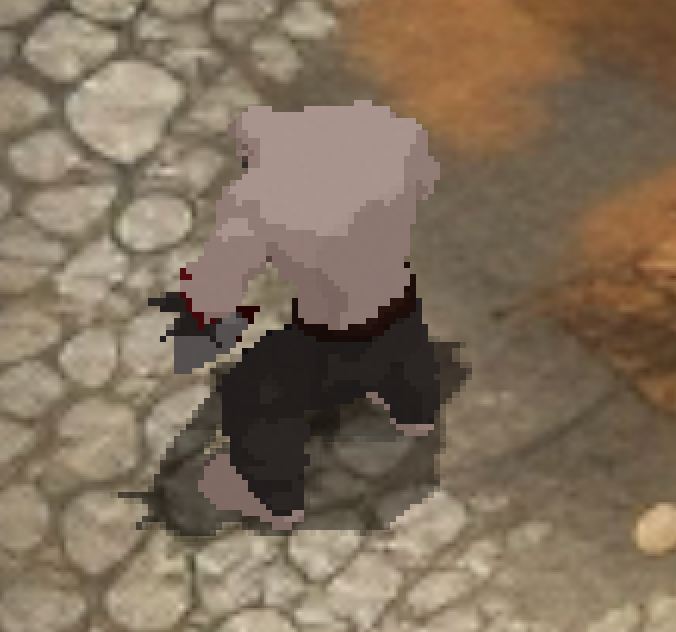
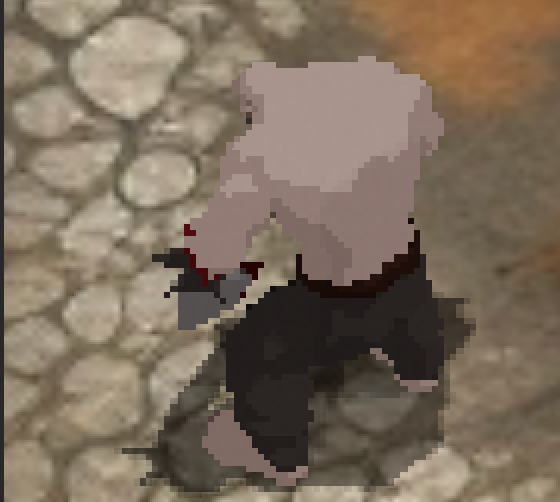
first commit

diff --git a/README.md b/README.md
@@ -22,7 +22,8 @@ Eles declaram que **Narandiba** será o primeiro passo para a destruição do mu
 * **Habilidade especial:** Atacar com o machado
 
 ![Player](Figures/1.png)
-![PlayerPlus|300x200](Figures/2.png)
+![PlayerPlus](Figures/2.png)
+
 *Player nos dois estados da cena: primeiro em idle com o machado, e segundo transformado devido ao bônus obtido.*
 
 **Objetivo:**
